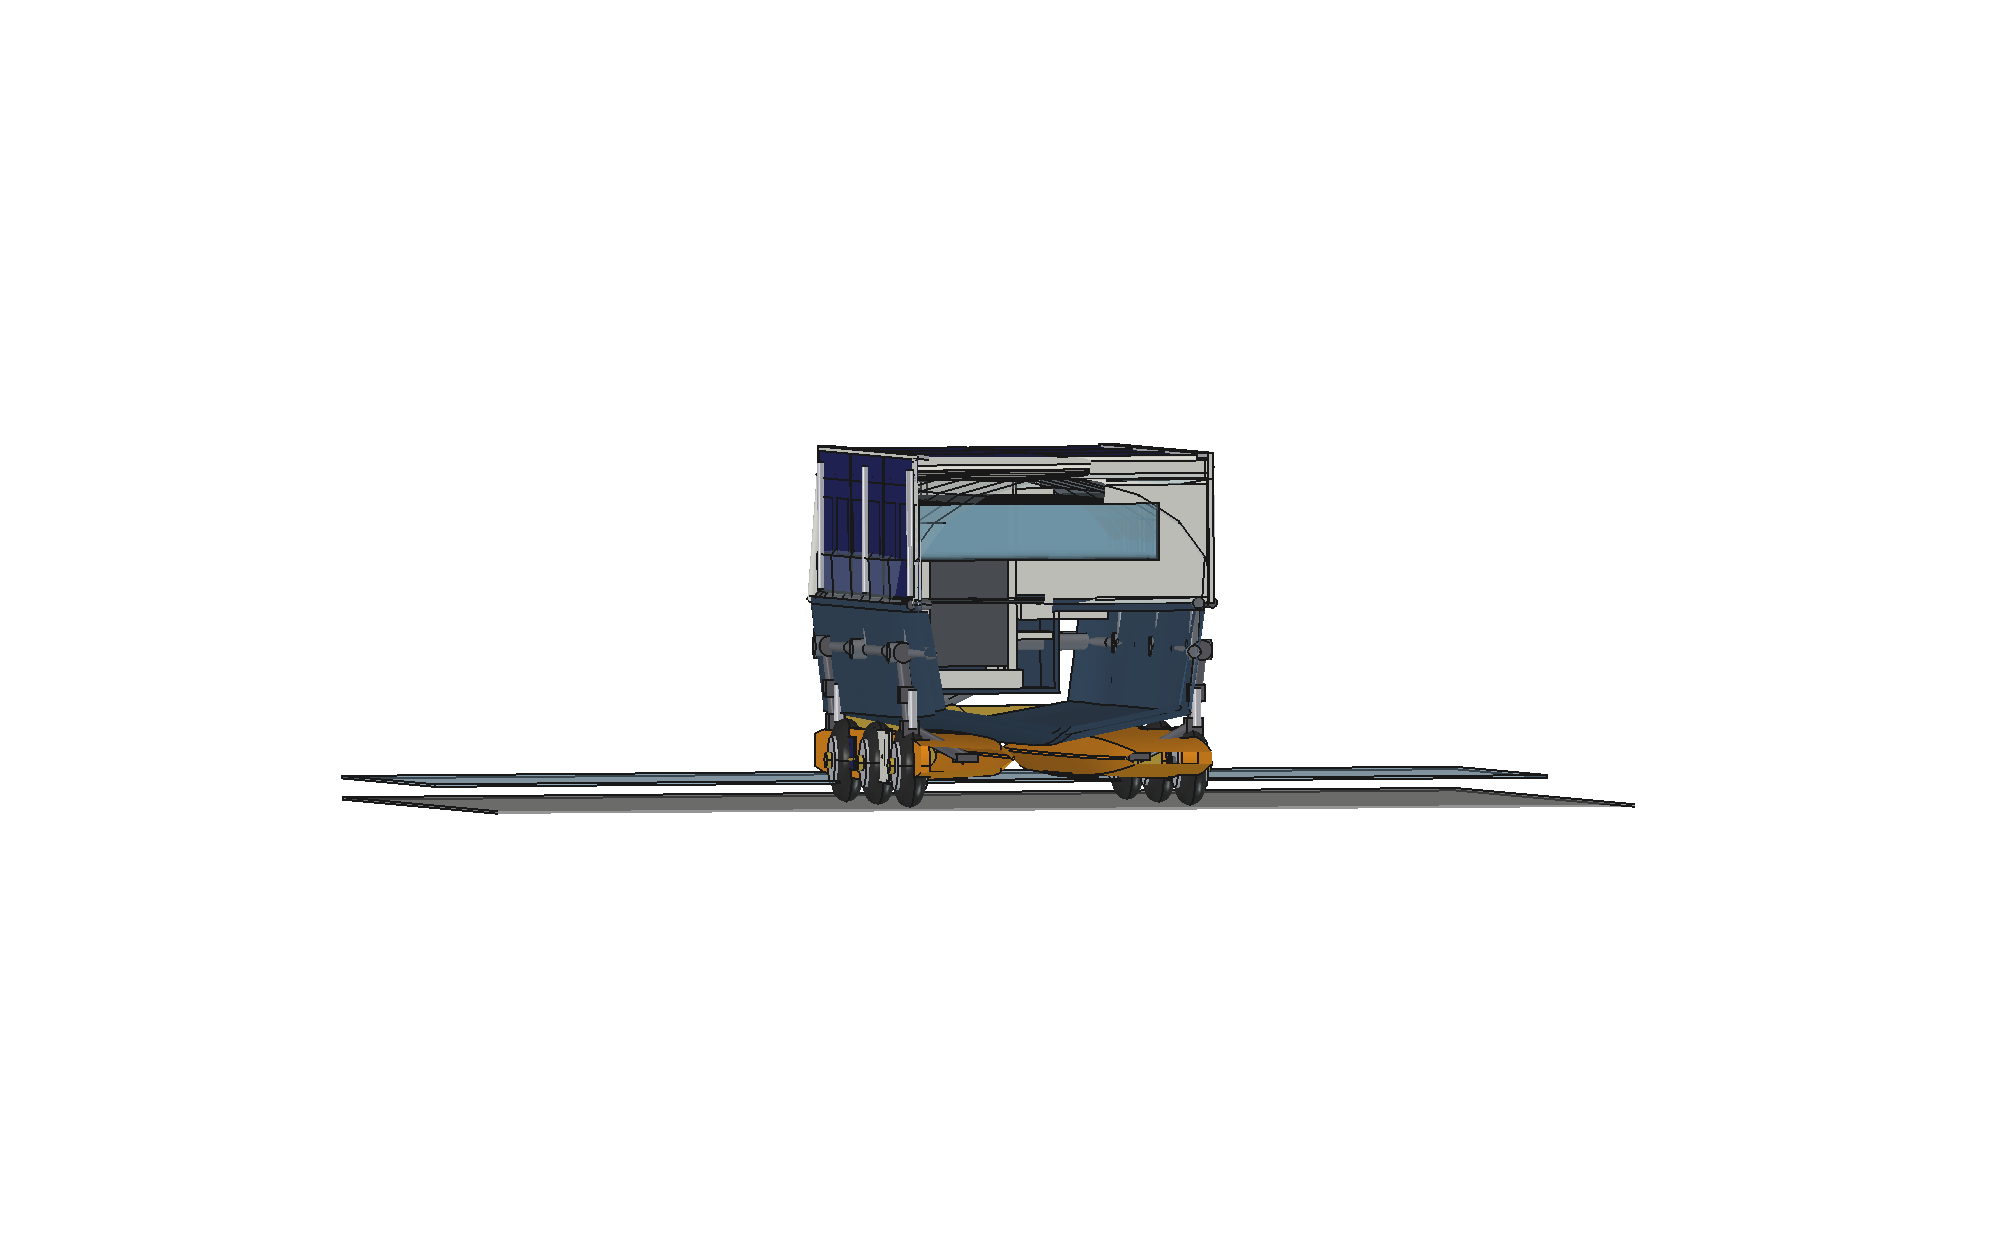
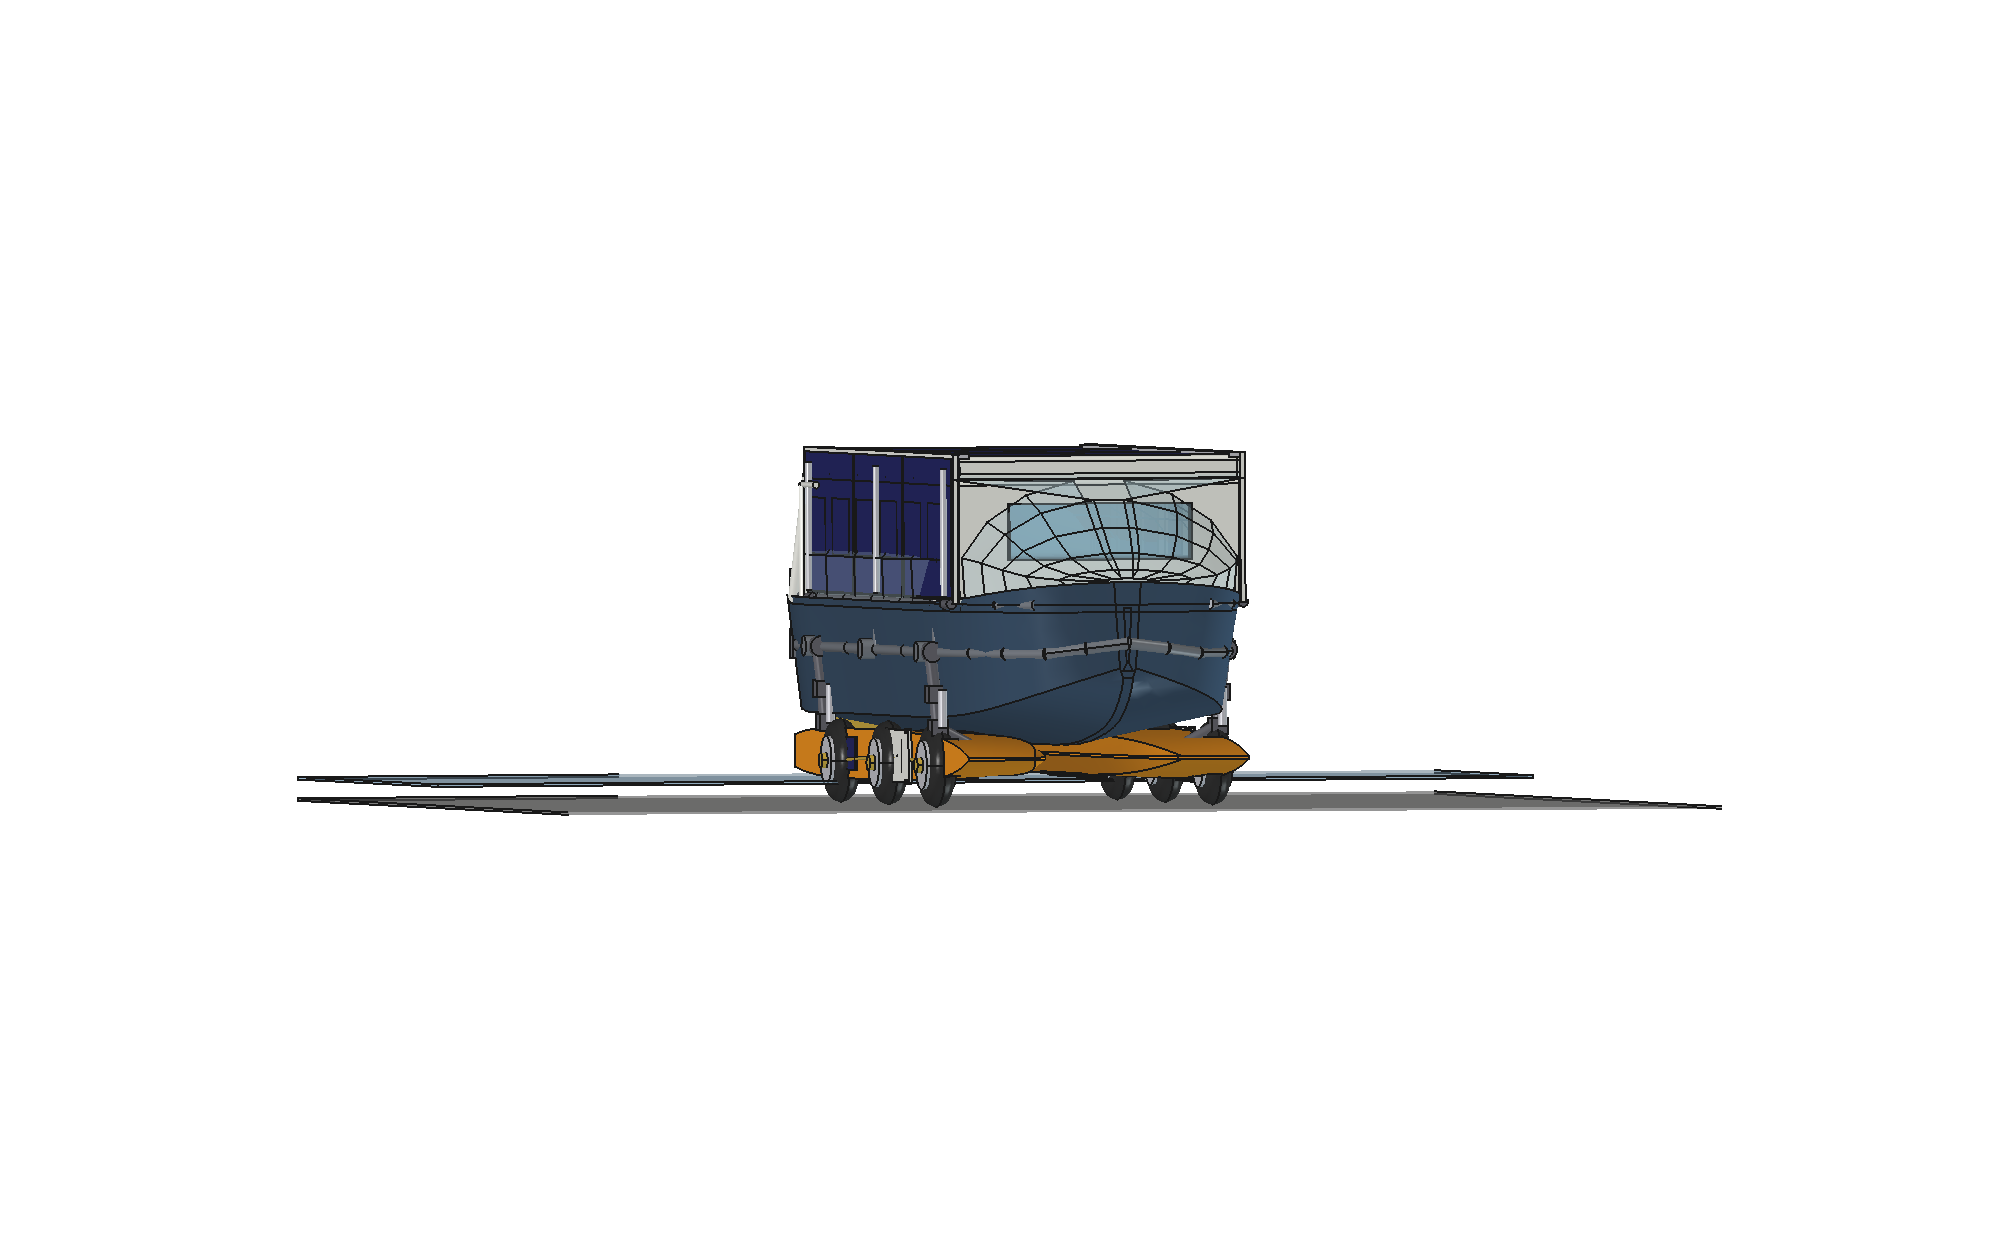
Sliding door into a pocket, and a walkable route to both balconies
Door: the leaf now slides to port into a pocket under the ladder
(to the right seen from inside) instead of swinging into the well.
Two cam levers pull it onto its gaskets when shut, since a slider only
seals if it also clamps. Shown open in cruise and anchor, closed in
road, launch and harbour.

Access to the side floors, on BOTH sides: a triangular corner landing
at bench height turns the 750 mm climb out of the well into two easy
steps (400 -> 850 -> 1150), a half step leads to the boarding gate in
the sheer rail, and a grab post bolted to the balcony frame — tied
back into the cabin wall and running forward along the balcony edge —
gives a handhold right where you step across.

Changed region(s): [[0.155, 0.3432, 0.868, 0.6552]]

diff --git a/freecad/build_boat.py b/freecad/build_boat.py
@@ -544,7 +544,7 @@ def build_tow(pose):
     return Part.makeCompound(parts)
 
 
-def build_aft_entry(rail_up=False):
+def build_aft_entry(rail_up=False, door_open=False):
     """Deep self-draining cockpit with side benches, storm door with
     1700 mm clear height, cantilevered rain porch (no deck posts —
     diagonal tubes to the wall), alternating-tread ladder hard against
@@ -584,15 +584,24 @@ def build_aft_entry(rail_up=False):
                          (x1 - 75, sgn * P.DOOR_HW - 35, P.DOOR_Z0)))
     parts.append(box(150, 2 * P.DOOR_HW + 70, 70,
                      (x1 - 75, -P.DOOR_HW - 35, P.DOOR_Z1 - 35)))
+    # sliding leaf: runs to PORT into a pocket under the ladder, so it
+    # never swings into the well. Closed it is pulled onto its gaskets
+    # by two cam levers (a slider seals as well as a hinged door only if
+    # it clamps — hence the cams, not just a track).
+    slide = -P.DOOR_SLIDE if door_open else 0
     dark.append(box(50, 2 * P.DOOR_HW - 40, P.DOOR_Z1 - P.DOOR_Z0 - 60,
-                    (x1 - 25, -P.DOOR_HW + 20, P.DOOR_Z0 + 30)))
+                    (x1 - 25, -P.DOOR_HW + 20 + slide, P.DOOR_Z0 + 30)))
     glass.append(box(20, 2 * P.DOOR_HW - 300, 800,
-                     (x1 - 40, -P.DOOR_HW + 150, P.DOOR_Z0 + 620)))
-    for dz in (0, 700):                                          # dogs
-        for sgn in (-1, 1):
-            parts.append(Part.makeCylinder(
-                26, 90, Vector(x1 - 40, sgn * (P.DOOR_HW - 60),
-                               P.DOOR_Z0 + 320 + dz), Vector(-1, 0, 0)))
+                     (x1 - 40, -P.DOOR_HW + 150 + slide, P.DOOR_Z0 + 620)))
+    parts.append(rod((x1 - 40, -P.DOOR_HW - P.DOOR_SLIDE - 40, P.DOOR_Z1 + 45),
+                     (x1 - 40, P.DOOR_HW + 40, P.DOOR_Z1 + 45), 55))  # track
+    parts.append(box(70, P.DOOR_SLIDE + 60, P.DOOR_Z1 - P.DOOR_Z0 + 40,
+                     (x1 - 95, -P.DOOR_HW - P.DOOR_SLIDE - 40,
+                      P.DOOR_Z0 - 20)))                             # pocket
+    for sgn in (-1, 1):                                             # cam levers
+        parts.append(Part.makeCylinder(
+            26, 110, Vector(x1 - 40, sgn * (P.DOOR_HW - 70) + slide,
+                            P.DOOR_Z0 + 620), Vector(-1, 0, 0)))
 
     # --- alternating-tread ladder, hard against the aft wall (67 deg).
     # Alternating treads are what make this angle walkable in 420 mm of
@@ -646,10 +655,33 @@ def build_aft_entry(rail_up=False):
                          P.LOCKER_Y0 + 15 + i * (P.LOCKER_Y1 - P.LOCKER_Y0) / 2,
                          P.LOCKER_Z0 + 30)))
 
-    # --- boarding steps out to the solar balconies, both sides
+    # --- comfortable route from the door out to the balcony walkways:
+    # a triangular corner landing at bench height turns the awkward
+    # climb into two easy steps, and a grab post bolted to the balcony
+    # frame gives a handhold right at the gate.
     for sgn in (-1, 1):
-        parts.append(box(P.GATE_X1 - P.GATE_X0, 200, 50,
-                         (P.GATE_X0, sgn * 1040 - 100, DECK_Z)))
+        tri = Part.Face(wire([(620, sgn * 380, P.LANDING_Z),
+                              (x1, sgn * 380, P.LANDING_Z),
+                              (x1, sgn * 1180, P.LANDING_Z),
+                              (620, sgn * 700, P.LANDING_Z)]))
+        parts.append(tri.extrude(Vector(0, 0, 55)))
+        parts.append(box(200, 480, 55,
+                         (x1 - 220, sgn * 700 - (480 if sgn < 0 else 0),
+                          (P.LANDING_Z + DECK_Z) / 2)))       # half step
+        parts.append(box(P.GATE_X1 - P.GATE_X0, 220, 50,
+                         (P.GATE_X0, sgn * 1090 - 110, DECK_Z)))
+        # grab post on the balcony frame + tie back into the cabin wall
+        parts.append(rod((P.GRAB_POST_X, sgn * P.GRAB_POST_Y, DECK_Z),
+                         (P.GRAB_POST_X, sgn * P.GRAB_POST_Y,
+                          DECK_Z + P.GRAB_POST_H), 65))
+        parts.append(rod((P.GRAB_POST_X, sgn * P.GRAB_POST_Y,
+                          DECK_Z + P.GRAB_POST_H),
+                         (P.CABIN_X0 - 30, sgn * (P.CABIN_W / 2 - 40),
+                          DECK_Z + P.GRAB_POST_H - 120), 55))
+        parts.append(rod((P.GRAB_POST_X, sgn * P.GRAB_POST_Y,
+                          DECK_Z + P.GRAB_POST_H),
+                         (P.GATE_X1, sgn * P.GRAB_POST_Y,
+                          DECK_Z + P.GRAB_POST_H), 55))
     return (Part.makeCompound(parts), Part.makeCompound(dark),
             Part.makeCompound(glass))
 
@@ -805,7 +837,8 @@ def build_mode(mode):
     add("Frame", build_frame(), (0.42, 0.44, 0.47))
     add("SternArch", build_tow(cfg["tow"]), (0.42, 0.44, 0.47))
     add("SternGear", build_stern_gear(), (0.55, 0.57, 0.6))
-    aft_s, aft_d, aft_g = build_aft_entry(cfg["lift"] > 0)
+    aft_s, aft_d, aft_g = build_aft_entry(cfg["lift"] > 0,
+                                          cfg["balc"] == 0)
     add("AftEntry", aft_s, WHITE)
     add("AftFittings", aft_d, (0.30, 0.32, 0.35))
     add("DoorGlass", aft_g, (0.5, 0.7, 0.8), 70)

diff --git a/freecad/params.py b/freecad/params.py
@@ -244,6 +244,9 @@ COCKPIT_WALL = 40
 BENCH_Z = 850                 # side benches: seat, and the step up to deck
 BENCH_DEPTH = 400
 DOOR_HW = 350
+DOOR_SLIDE = 760              # leaf slides to PORT into a pocket under
+                              # the ladder (i.e. to the right seen from
+                              # inside), so it never swings into the well
 DOOR_Z0, DOOR_Z1 = 550, 2100  # 150 sill; 1700 mm clear above the floor
 PORCH_X0, PORCH_X1 = 120, 820 # cantilevered, flashing seals it to the wall
 PORCH_HW = 700                # narrow: covers the well, clears the ladder
@@ -254,6 +257,13 @@ STAIR_Y0, STAIR_Y1 = -1200, -740   # port strip, to the LEFT of the door
 STAIR_X0, STAIR_X1 = 460, 880
 STAIR_STEPS = 8
 GATE_X0, GATE_X1 = 950, 1450   # sheer-rail gap: step out to the balconies
+# transition from the door out to the balcony walkways: a triangular
+# landing in each forward corner at bench height, and a grab post
+# bolted to the balcony frame at the gate
+LANDING_Z = 850
+GRAB_POST_X = 980
+GRAB_POST_Y = 1230
+GRAB_POST_H = 900
 # aft wall fit-out, seen from the cockpit: AC upper right, lockers below
 AC_Y0, AC_Y1 = 600, 1140
 AC_Z0, AC_Z1 = 1760, 2100

diff --git a/docs/aft_entry.md b/docs/aft_entry.md
@@ -43,8 +43,12 @@ The living quarters stay sealed from every direction:
   aboard runs straight out; it can never pond against the door.
 - **Storm sill 180 mm** above that floor. Water has to rise 180 mm in
   an already-draining cockpit before it can even reach the threshold.
-- **Gasketed door** with four dogs (two per side), sealing against a
-  continuous frame — the same detail used on wheelhouse doors.
+- **Sliding gasketed door.** The leaf runs to port into a pocket
+  **under the ladder** (to the right as you look out from inside), so
+  it never swings into the well and never has to be held against the
+  wind. A slider only seals if it also clamps, so two **cam levers**
+  pull the leaf onto its gaskets when shut — the standard marine
+  sliding-door detail.
 - **Porch roof** over the whole cockpit, so rain never falls on the
   door while it is open. It is **cantilevered off the cabin wall on two
   diagonal tubes** — no posts standing on the deck, because nobody
@@ -95,10 +99,20 @@ so the balconies are **not** reached by walking along the sides. They
 are reached from the cockpit: both balconies start at x 900, level
 with the deck, right where the crew stands.
 
-- A **boarding gate** (x 950–1450) is left open in the sheer rail on
-  each side, with a threshold step plate.
-- Step out of the cockpit onto the side strip, through the gate, and
-  you are on the 1 200 mm-wide balcony walkway that runs the length of
-  the boat over the float.
-- In road mode the balconies fold up over the windows, so the gates
-  are simply unused.
+On **both sides**, the route out of the door is made walkable by three
+pieces:
+
+1. **Triangular corner landing** at bench height (850), filling the
+   forward corner of the well. It turns one awkward 750 mm climb into
+   two easy steps — floor 400 → landing 850 → deck 1150 — and gives
+   room to turn while carrying something.
+2. **Half step** at the outboard edge of the landing, then the
+   **boarding gate** (x 950–1450): a gap deliberately left in the sheer
+   rail with a threshold plate.
+3. **Grab post bolted to the balcony frame** at the gate, 900 mm tall,
+   tied back into the cabin wall and running forward along the
+   balcony edge — a handhold exactly where you step across.
+
+You then walk the 1 200 mm-wide balcony over the float for the whole
+length of the boat. In road trim the balconies fold up over the
+windows and the gates are simply unused.
